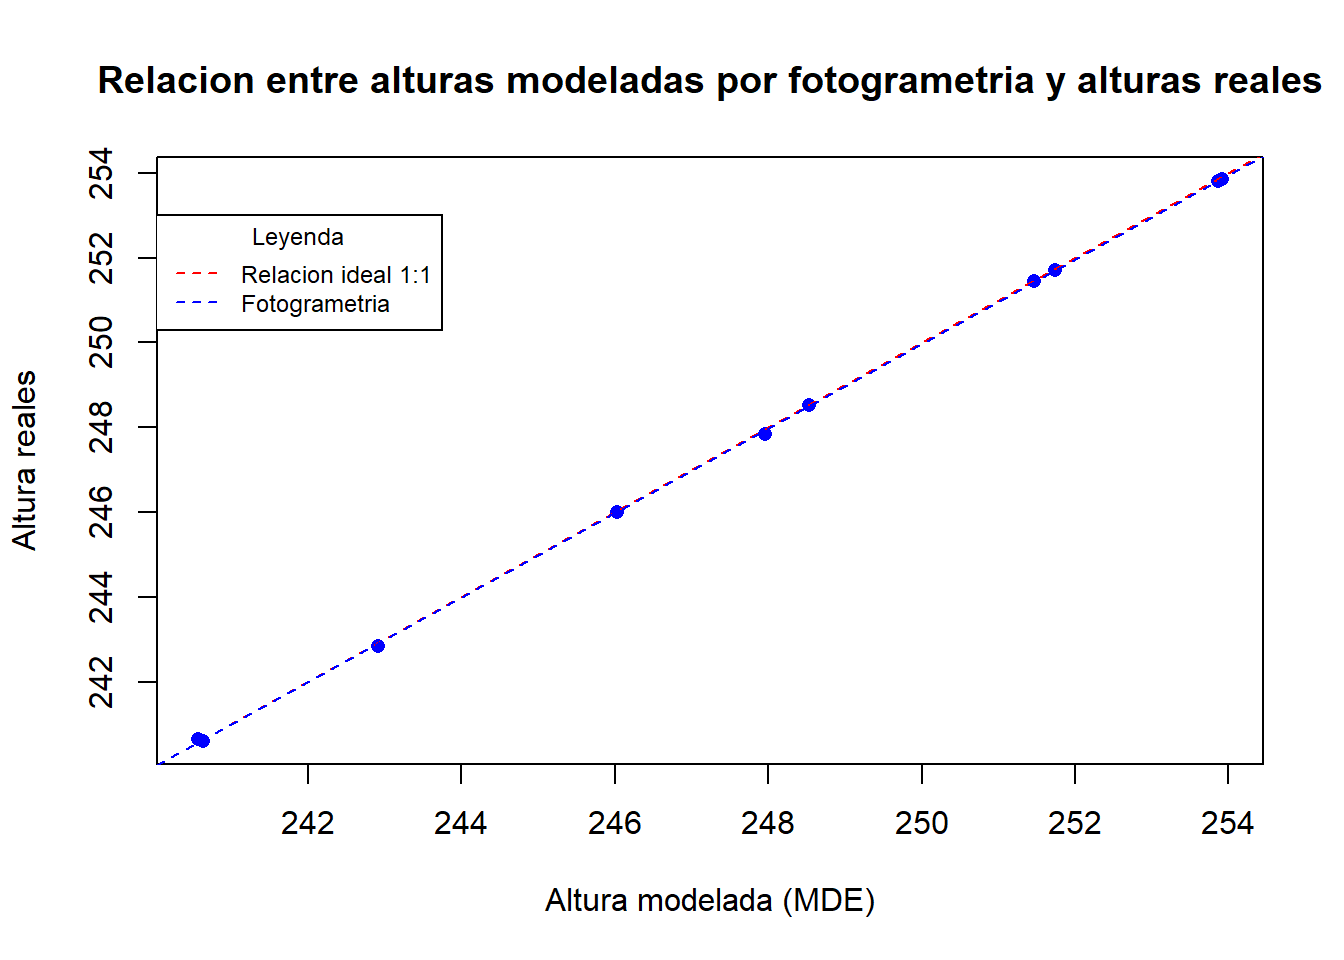
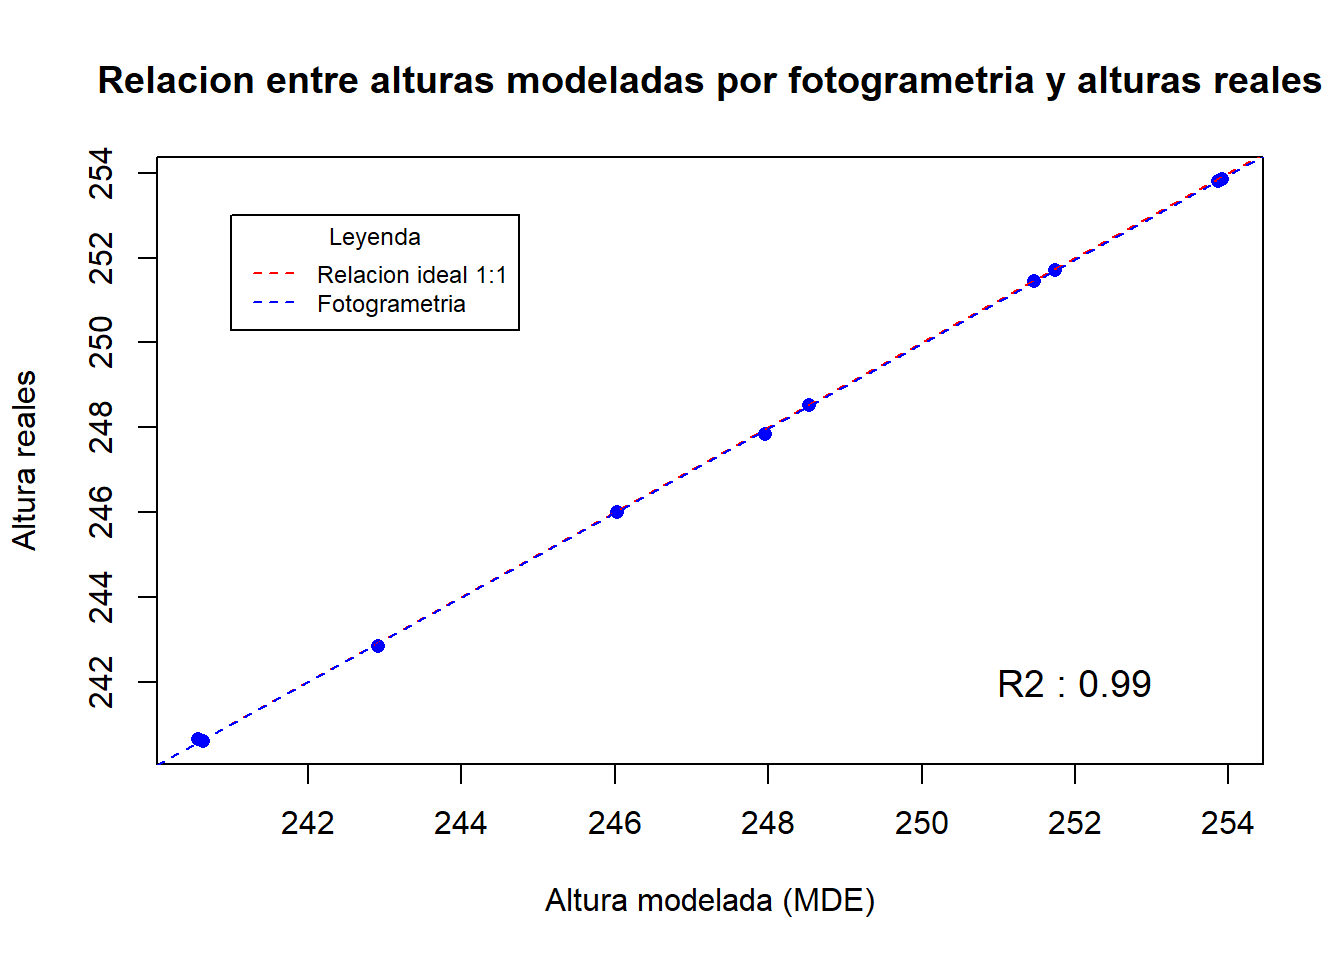
el R2

Changed region(s): [[0.1562, 0.2188, 0.375, 0.3438], [0.75, 0.6875, 0.875, 0.7188]]

diff --git a/public/2020/05/24/argentina/index.html b/public/2020/05/24/argentina/index.html
@@ -92,7 +92,6 @@ coordinates(puntos_sp) &lt;- ~ Este + Norte</code></pre>
 <pre class="r"><code>plot(dsm, main= &quot;Modelo digital de elevacion msnm (MDE)&quot;)
 points(puntos_sp, pch = 16, col = &quot;black&quot;, cex= 0.8)</code></pre>
 <p><img src="/post/2020-05-24-argentina_files/figure-html/unnamed-chunk-4-1.png" width="672" /></p>
-<p>Resumen estadístico de las alturas de los puntos de control:</p>
 <p>Adecuación de proyección cartográficas:</p>
 <pre class="r"><code>crs(puntos_sp);</code></pre>
 <pre><code>## CRS arguments: NA</code></pre>
@@ -104,15 +103,15 @@ points(puntos_sp, pch = 16, col = &quot;black&quot;, cex= 0.8)</code></pre>
 +towgs84=0,0,0,0,0,0,0 +units=m +no_defs&quot;)</code></pre>
 <p>Extracción de datos de alturas del MDE:</p>
 <pre class="r"><code>puntos_sp &lt;- extract(x = dsm, y = puntos_sp, sp = TRUE)</code></pre>
-<p>Estadísticos de alturas puntos de control obtenidas de Estación:</p>
+<p>Estadísticos de las alturas en los puntos de control, obtenidas de Estación:</p>
 <pre class="r"><code>summary(puntos_sp$AlturaZ);</code></pre>
 <pre><code>##    Min. 1st Qu.  Median    Mean 3rd Qu.    Max. 
 ##   240.6   243.6   248.2   247.7   251.7   253.8</code></pre>
-<p>Estadísticos de alturas de puntos de control obtenidas del MDE:</p>
+<p>Estadísticos de las alturas en los puntos de control, obtenidas del MDE:</p>
 <pre class="r"><code>summary(puntos_sp$Arg_Prof_dsm)</code></pre>
 <pre><code>##    Min. 1st Qu.  Median    Mean 3rd Qu.    Max. 
 ##   240.6   243.7   248.2   247.8   251.7   253.9</code></pre>
-<p>Estadísticos de los errores, diferencias o residuos:</p>
+<p>Estadísticos de los errores, diferencias o residuos entre las alturas obtenidas por ambos metodos (puntos de control y MDE):</p>
 <pre class="r"><code>summary(res_pae &lt;- abs(puntos_sp$Arg_Prof_dsm - puntos_sp$AlturaZ))</code></pre>
 <pre><code>##     Min.  1st Qu.   Median     Mean  3rd Qu.     Max. 
 ## 0.005446 0.022803 0.038593 0.046468 0.070950 0.106136</code></pre>
@@ -130,8 +129,8 @@ abline(0,1, lty=2, col=&#39;red&#39;)
 abline(lm(puntos_sp$AlturaZ ~ puntos_sp$Arg_Prof_dsm), col = &#39;blue&#39;, lty=2)
 legend(x = 241, y = 253,  legend = c(&quot;Relacion ideal 1:1&quot;, &quot;Fotogrametria&quot;), col = c(&quot;Red&quot;, &quot;Blue&quot;), 
        title = &quot;Leyenda&quot;, lty = 2, cex = 0.75)
-text(20,4,&quot;R2 : 0.41&quot;, cex = 1.5)</code></pre>
-<p><img src="/post/2020-05-24-argentina_files/figure-html/unnamed-chunk-14-1.png" width="672" /></p>
+text(252,242,&quot;R2 : 0.99&quot;, cex = 1.2)</code></pre>
+<p><img src="/post/2020-05-24-argentina_files/figure-html/unnamed-chunk-13-1.png" width="672" /></p>
 <p>Gráficos de magnitud de residuos espaciales:</p>
 <pre class="r"><code>area &lt;- shapefile(&quot;C:/Proyectos/Diego/PAE/area.shp&quot;)
 area@proj4string &lt;- CRS(projargs = &quot;+proj=tmerc +lat_0=-90 +lon_0=-69 +k=1 +x_0=2500000 +y_0=0 +ellps=WGS84
@@ -139,7 +138,7 @@ area@proj4string &lt;- CRS(projargs = &quot;+proj=tmerc +lat_0=-90 +lon_0=-69 +k
 area.sp &lt;- as(area, &quot;SpatialPolygonsDataFrame&quot;, filled.contour())
 bubble(puntos_sp[!is.na(puntos_sp$diferencia),], &quot;diferencia&quot;, pch = 16, 
        col=c(&#39;red&#39;, &#39;green&#39;), main = &quot;Errores espaciales de prediccion&quot;, sp.layout=list(&quot;sp.polygons&quot;, area.sp, fill=&quot;0&quot;) )</code></pre>
-<p><img src="/post/2020-05-24-argentina_files/figure-html/unnamed-chunk-15-1.png" width="672" /> Esta ultimo gráfico muestra las diferencias en alturas en cada sitio de control. Exponiendo la magnitud de sobre (Verde) o sub (Rojo) estimación del modelo digital de elevación (MDE). El tamaño del circulo muestra la magnitud de la diferencia.</p>
+<p><img src="/post/2020-05-24-argentina_files/figure-html/unnamed-chunk-14-1.png" width="672" /> Esta ultimo gráfico muestra las diferencias en alturas en cada sitio de control. Exponiendo la magnitud de sobre (Verde) o sub (Rojo) estimación del modelo digital de elevación (MDE). El tamaño del circulo muestra la magnitud de la diferencia.</p>
 <p><strong>Conclusiones</strong></p>
 <p>Las diferencias del modelo en general son muy bajas, con un error absoluto promedio de 5 mm, un error cuadrático de 6 mm y una coincidencia entre valores de alturas reales y modelados muy alta de 0,99. En definitiva la mayoría de los puntos no sobre pasan los 7 mm de diferencias.</p>
 </div>

diff --git a/content/post/2020-05-24-argentina.html b/content/post/2020-05-24-argentina.html
@@ -24,7 +24,6 @@ coordinates(puntos_sp) &lt;- ~ Este + Norte</code></pre>
 <pre class="r"><code>plot(dsm, main= &quot;Modelo digital de elevacion msnm (MDE)&quot;)
 points(puntos_sp, pch = 16, col = &quot;black&quot;, cex= 0.8)</code></pre>
 <p><img src="/post/2020-05-24-argentina_files/figure-html/unnamed-chunk-4-1.png" width="672" /></p>
-<p>Resumen estadístico de las alturas de los puntos de control:</p>
 <p>Adecuación de proyección cartográficas:</p>
 <pre class="r"><code>crs(puntos_sp);</code></pre>
 <pre><code>## CRS arguments: NA</code></pre>
@@ -36,15 +35,15 @@ points(puntos_sp, pch = 16, col = &quot;black&quot;, cex= 0.8)</code></pre>
 +towgs84=0,0,0,0,0,0,0 +units=m +no_defs&quot;)</code></pre>
 <p>Extracción de datos de alturas del MDE:</p>
 <pre class="r"><code>puntos_sp &lt;- extract(x = dsm, y = puntos_sp, sp = TRUE)</code></pre>
-<p>Estadísticos de alturas puntos de control obtenidas de Estación:</p>
+<p>Estadísticos de las alturas en los puntos de control, obtenidas de Estación:</p>
 <pre class="r"><code>summary(puntos_sp$AlturaZ);</code></pre>
 <pre><code>##    Min. 1st Qu.  Median    Mean 3rd Qu.    Max. 
 ##   240.6   243.6   248.2   247.7   251.7   253.8</code></pre>
-<p>Estadísticos de alturas de puntos de control obtenidas del MDE:</p>
+<p>Estadísticos de las alturas en los puntos de control, obtenidas del MDE:</p>
 <pre class="r"><code>summary(puntos_sp$Arg_Prof_dsm)</code></pre>
 <pre><code>##    Min. 1st Qu.  Median    Mean 3rd Qu.    Max. 
 ##   240.6   243.7   248.2   247.8   251.7   253.9</code></pre>
-<p>Estadísticos de los errores, diferencias o residuos:</p>
+<p>Estadísticos de los errores, diferencias o residuos entre las alturas obtenidas por ambos metodos (puntos de control y MDE):</p>
 <pre class="r"><code>summary(res_pae &lt;- abs(puntos_sp$Arg_Prof_dsm - puntos_sp$AlturaZ))</code></pre>
 <pre><code>##     Min.  1st Qu.   Median     Mean  3rd Qu.     Max. 
 ## 0.005446 0.022803 0.038593 0.046468 0.070950 0.106136</code></pre>
@@ -62,8 +61,8 @@ abline(0,1, lty=2, col=&#39;red&#39;)
 abline(lm(puntos_sp$AlturaZ ~ puntos_sp$Arg_Prof_dsm), col = &#39;blue&#39;, lty=2)
 legend(x = 241, y = 253,  legend = c(&quot;Relacion ideal 1:1&quot;, &quot;Fotogrametria&quot;), col = c(&quot;Red&quot;, &quot;Blue&quot;), 
        title = &quot;Leyenda&quot;, lty = 2, cex = 0.75)
-text(20,4,&quot;R2 : 0.41&quot;, cex = 1.5)</code></pre>
-<p><img src="/post/2020-05-24-argentina_files/figure-html/unnamed-chunk-14-1.png" width="672" /></p>
+text(252,242,&quot;R2 : 0.99&quot;, cex = 1.2)</code></pre>
+<p><img src="/post/2020-05-24-argentina_files/figure-html/unnamed-chunk-13-1.png" width="672" /></p>
 <p>Gráficos de magnitud de residuos espaciales:</p>
 <pre class="r"><code>area &lt;- shapefile(&quot;C:/Proyectos/Diego/PAE/area.shp&quot;)
 area@proj4string &lt;- CRS(projargs = &quot;+proj=tmerc +lat_0=-90 +lon_0=-69 +k=1 +x_0=2500000 +y_0=0 +ellps=WGS84
@@ -71,7 +70,7 @@ area@proj4string &lt;- CRS(projargs = &quot;+proj=tmerc +lat_0=-90 +lon_0=-69 +k
 area.sp &lt;- as(area, &quot;SpatialPolygonsDataFrame&quot;, filled.contour())
 bubble(puntos_sp[!is.na(puntos_sp$diferencia),], &quot;diferencia&quot;, pch = 16, 
        col=c(&#39;red&#39;, &#39;green&#39;), main = &quot;Errores espaciales de prediccion&quot;, sp.layout=list(&quot;sp.polygons&quot;, area.sp, fill=&quot;0&quot;) )</code></pre>
-<p><img src="/post/2020-05-24-argentina_files/figure-html/unnamed-chunk-15-1.png" width="672" /> Esta ultimo gráfico muestra las diferencias en alturas en cada sitio de control. Exponiendo la magnitud de sobre (Verde) o sub (Rojo) estimación del modelo digital de elevación (MDE). El tamaño del circulo muestra la magnitud de la diferencia.</p>
+<p><img src="/post/2020-05-24-argentina_files/figure-html/unnamed-chunk-14-1.png" width="672" /> Esta ultimo gráfico muestra las diferencias en alturas en cada sitio de control. Exponiendo la magnitud de sobre (Verde) o sub (Rojo) estimación del modelo digital de elevación (MDE). El tamaño del circulo muestra la magnitud de la diferencia.</p>
 <p><strong>Conclusiones</strong></p>
 <p>Las diferencias del modelo en general son muy bajas, con un error absoluto promedio de 5 mm, un error cuadrático de 6 mm y una coincidencia entre valores de alturas reales y modelados muy alta de 0,99. En definitiva la mayoría de los puntos no sobre pasan los 7 mm de diferencias.</p>
 </div>
